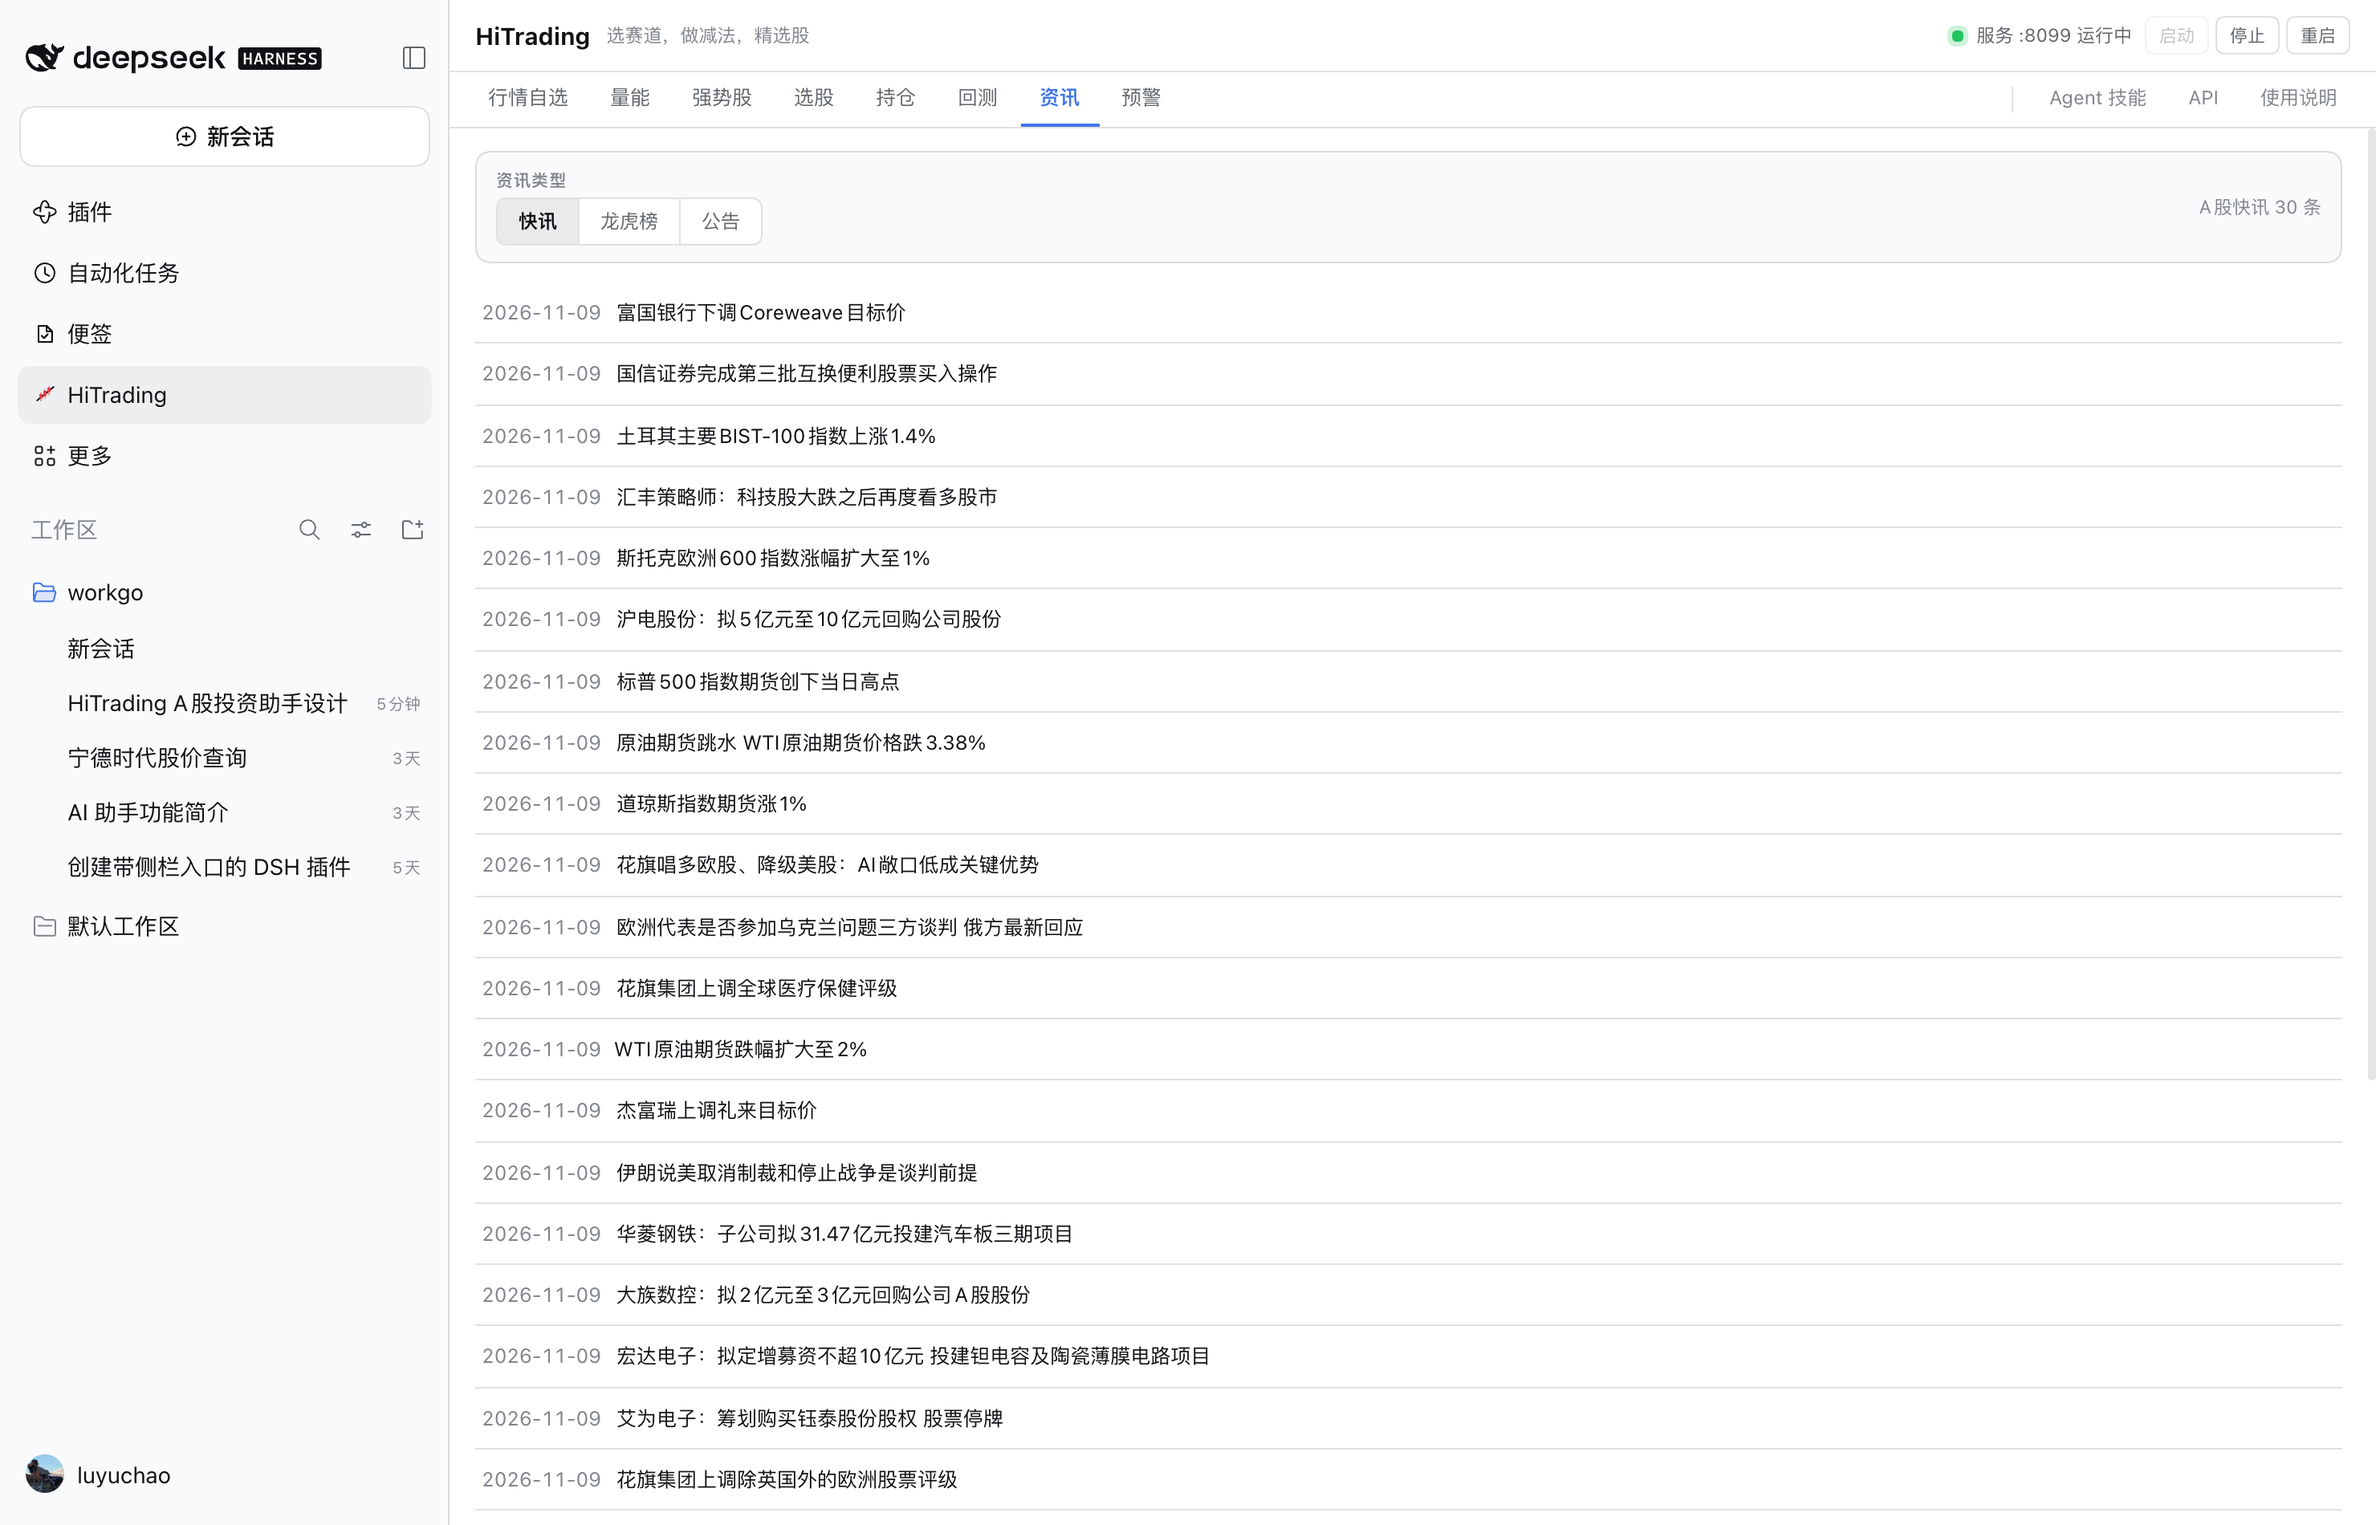
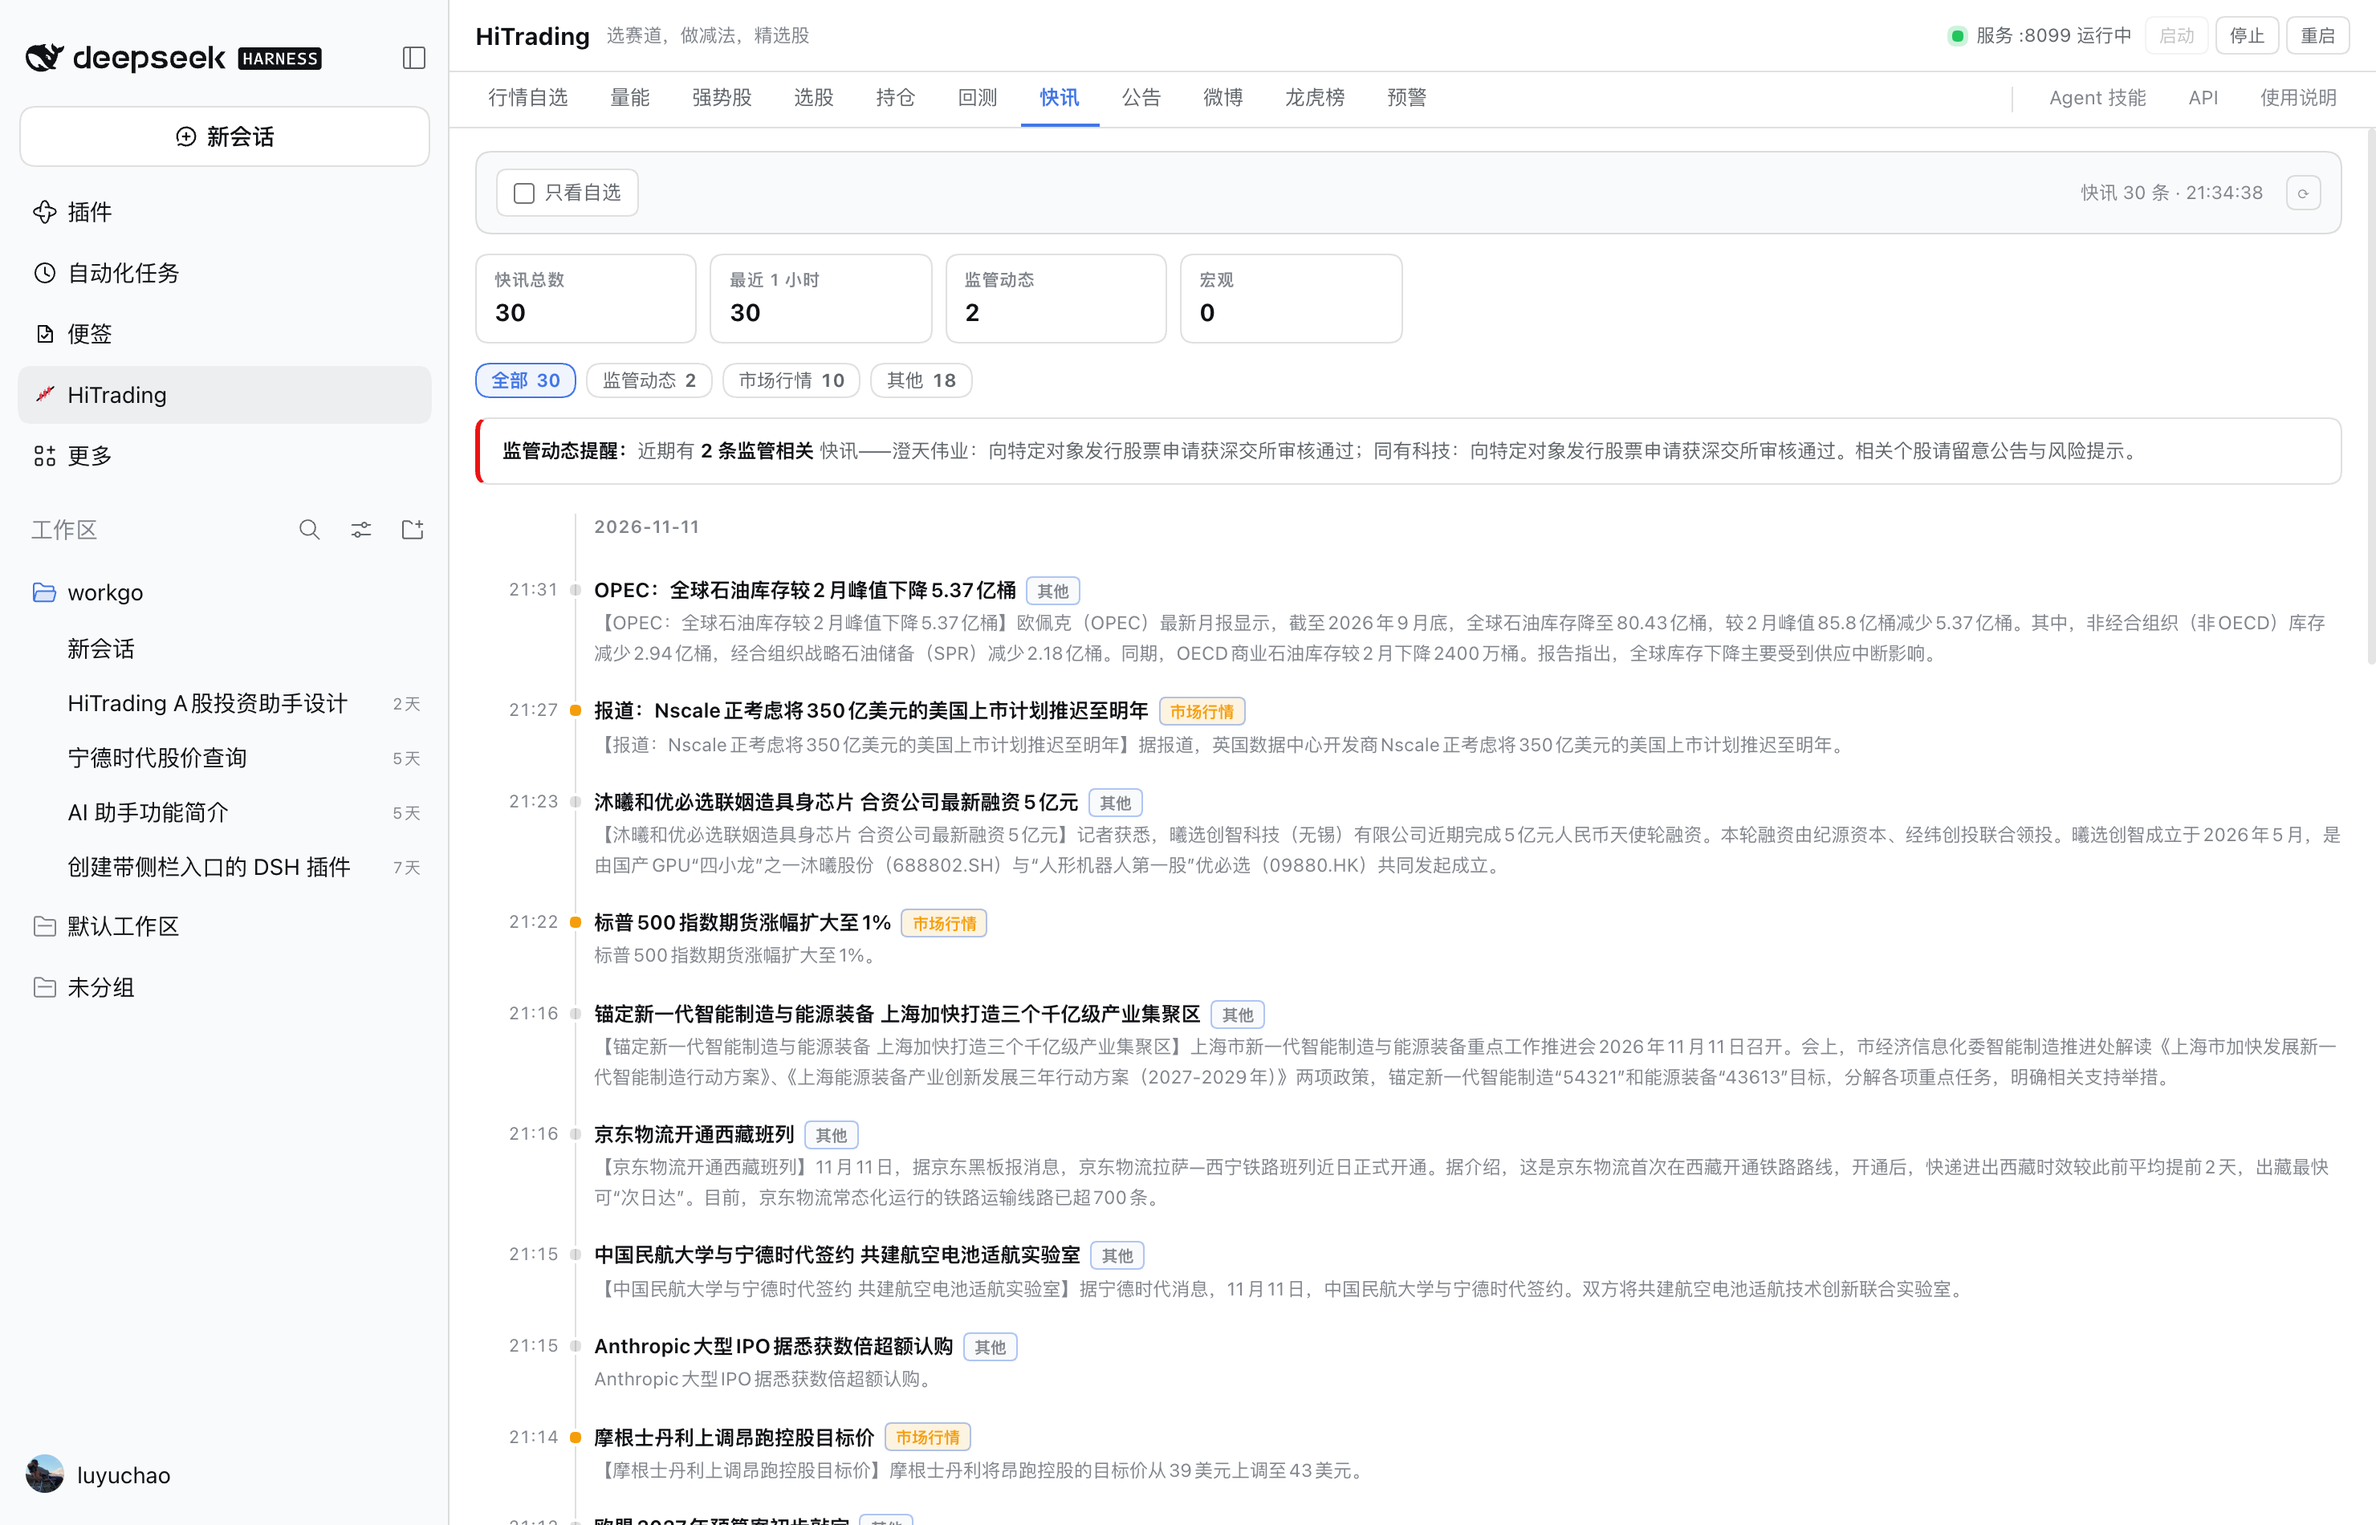
官网同步 Tab 重构：新增快讯/公告/微博/龙虎榜截图与文档
- 重新生成 14 张真实 GUI 截图（新增 announcement / weibo / lhb，刷新 powerful/overview）
- Shot.astro 注册新截图
- overview.mdx：Tab 速览改为 14 行（快讯/公告/微博/龙虎榜拆开）
- news-alerts.mdx 重写：四条信息流各一节 + 预警，补充快讯指标卡/公告七类分类/
  微博提取股票/龙虎榜资金摘要的说明与截图
- package.json 描述、DESIGN.md 面板定位同步为 14-Tab / 12 工具
- astro build 通过（14 页）

diff --git a/DESIGN.md b/DESIGN.md
@@ -7,7 +7,7 @@
 
 HiTrading 是运行在当前 DeepSeek Harness 内的 **Cordis 插件**，为 Agent 与用户提供 A股（沪深）投资辅助能力：
 
-- **Agent 侧**：注册一组 A股工具（行情、K线、分析、选股、自选/持仓、资讯、回测、预警），Agent 在对话中按需调用。
+- **Agent 侧**：注册一组 A股工具（行情、K线、分析、选股、自选/持仓、快讯/公告/龙虎榜、微博、回测、预警），Agent 在对话中按需调用。
 - **UI 侧**：在 Web GUI 挂出面板与工具结果可视化（K线图、数据表、自选/持仓列表）。
 - **定位**：纯分析与跟踪，**不连接券商、不真实下单**；所有结论附投资风险提示。
 
@@ -150,5 +150,5 @@ hitrading/                      # 单个 bundle 包 @atorber/hitrading（GitHub:
 - 全部 11 个工具 + 持久化 domain + 预警定时器 + sidebar 面板已实现并端到端验证；数据源为腾讯/新浪行情 + 新浪K线/列表 + 东财 push2/push2his/push2ex（量能、强势股、龙虎榜/公告/快讯）。强势股按日缓存进 SQLite（powerful 表）：历史日首次访问扫描全市场日K（约 20 秒）后落盘，之后秒出。
 - **本地 bundle 的 @deepseek-ai 依赖解析**：Host 侧 import 了 `dsh-tools`（工具定义）。registry 只有旧版（0.0.1-rc.1），与运行时（0.2.2-rc.1）不一致，不可写成 npm 依赖；本地 `link:` 安装下 ESM 从插件真实路径解析，需在插件目录建指向 DSH 安装树的 `node_modules/@deepseek-ai` 软链（详见 README「本地开发注意」）。
 - **预警触达**：一期为「面板/工具列表可见触发状态」——`ctx.timer` 轮询（交易时段）检测规则，触发后写 `triggered` + `lastTriggeredAt` 到 domain；`hitrading_alert list` 与面板可见「已触发」。弹窗式提醒与实时面板数据需 Host→Client 数据通道（`useResource`/Remote），列为后续增强。
-- **面板定位**：client 侧注册 `sidebar.panellist`（图标）+ `main`（key=`hitrading` 页面，keyed slot），经 `Slots.listSubTree` 验证 `hitrading` occupant 已激活。**已从「说明导航页」升级为 11-Tab 交互控制台**（行情自选/量能/强势股/选股/持仓/回测/资讯/预警/Agent 技能/API/使用说明）：Host 把 11 个操作抽成单一真相源 `lib/ops.js`，并经 `ctx.connection.fetch.register` 暴露鉴权路由 `/api/hitrading`（GET/POST，JSON）；client 端各视图通过同源 `fetch('/api/hitrading')` 实时读写，含 K线图（SVG）、权益曲线图、表单与增删交互。
+- **面板定位**：client 侧注册 `sidebar.panellist`（图标）+ `main`（key=`hitrading` 页面，keyed slot），经 `Slots.listSubTree` 验证 `hitrading` occupant 已激活。**已从「说明导航页」升级为 14-Tab 交互控制台**（行情自选/量能/强势股/选股/持仓/回测/快讯/公告/微博/龙虎榜/预警/Agent 技能/API/使用说明）：Host 把 11 个操作抽成单一真相源 `lib/ops.js`，并经 `ctx.connection.fetch.register` 暴露鉴权路由 `/api/hitrading`（GET/POST，JSON）；client 端各视图通过同源 `fetch('/api/hitrading')` 实时读写，含 K线图（SVG）、权益曲线图、表单与增删交互。
 - **跨进程共享与外部接入**：持久化由 storage-domain 改为 **SQLite（`node:sqlite`，WAL）** `~/.dsh/storages/hitrading.db`，插件/面板/独立服务三方共享；独立服务 `server.js` 暴露同一套 op 的 HTTP API（默认 `127.0.0.1:8099`）。其他 Agent 通过 `skills/hitrading/SKILL.md`（`install-skill.sh` 可一键装到 `~/.agents/skills`、`~/.claude/skills`、`~/.cursor/skills`；或 `GET /skill.md` 拉取）接入；`hitrading` skill 已在本机三个目录安装成功。
